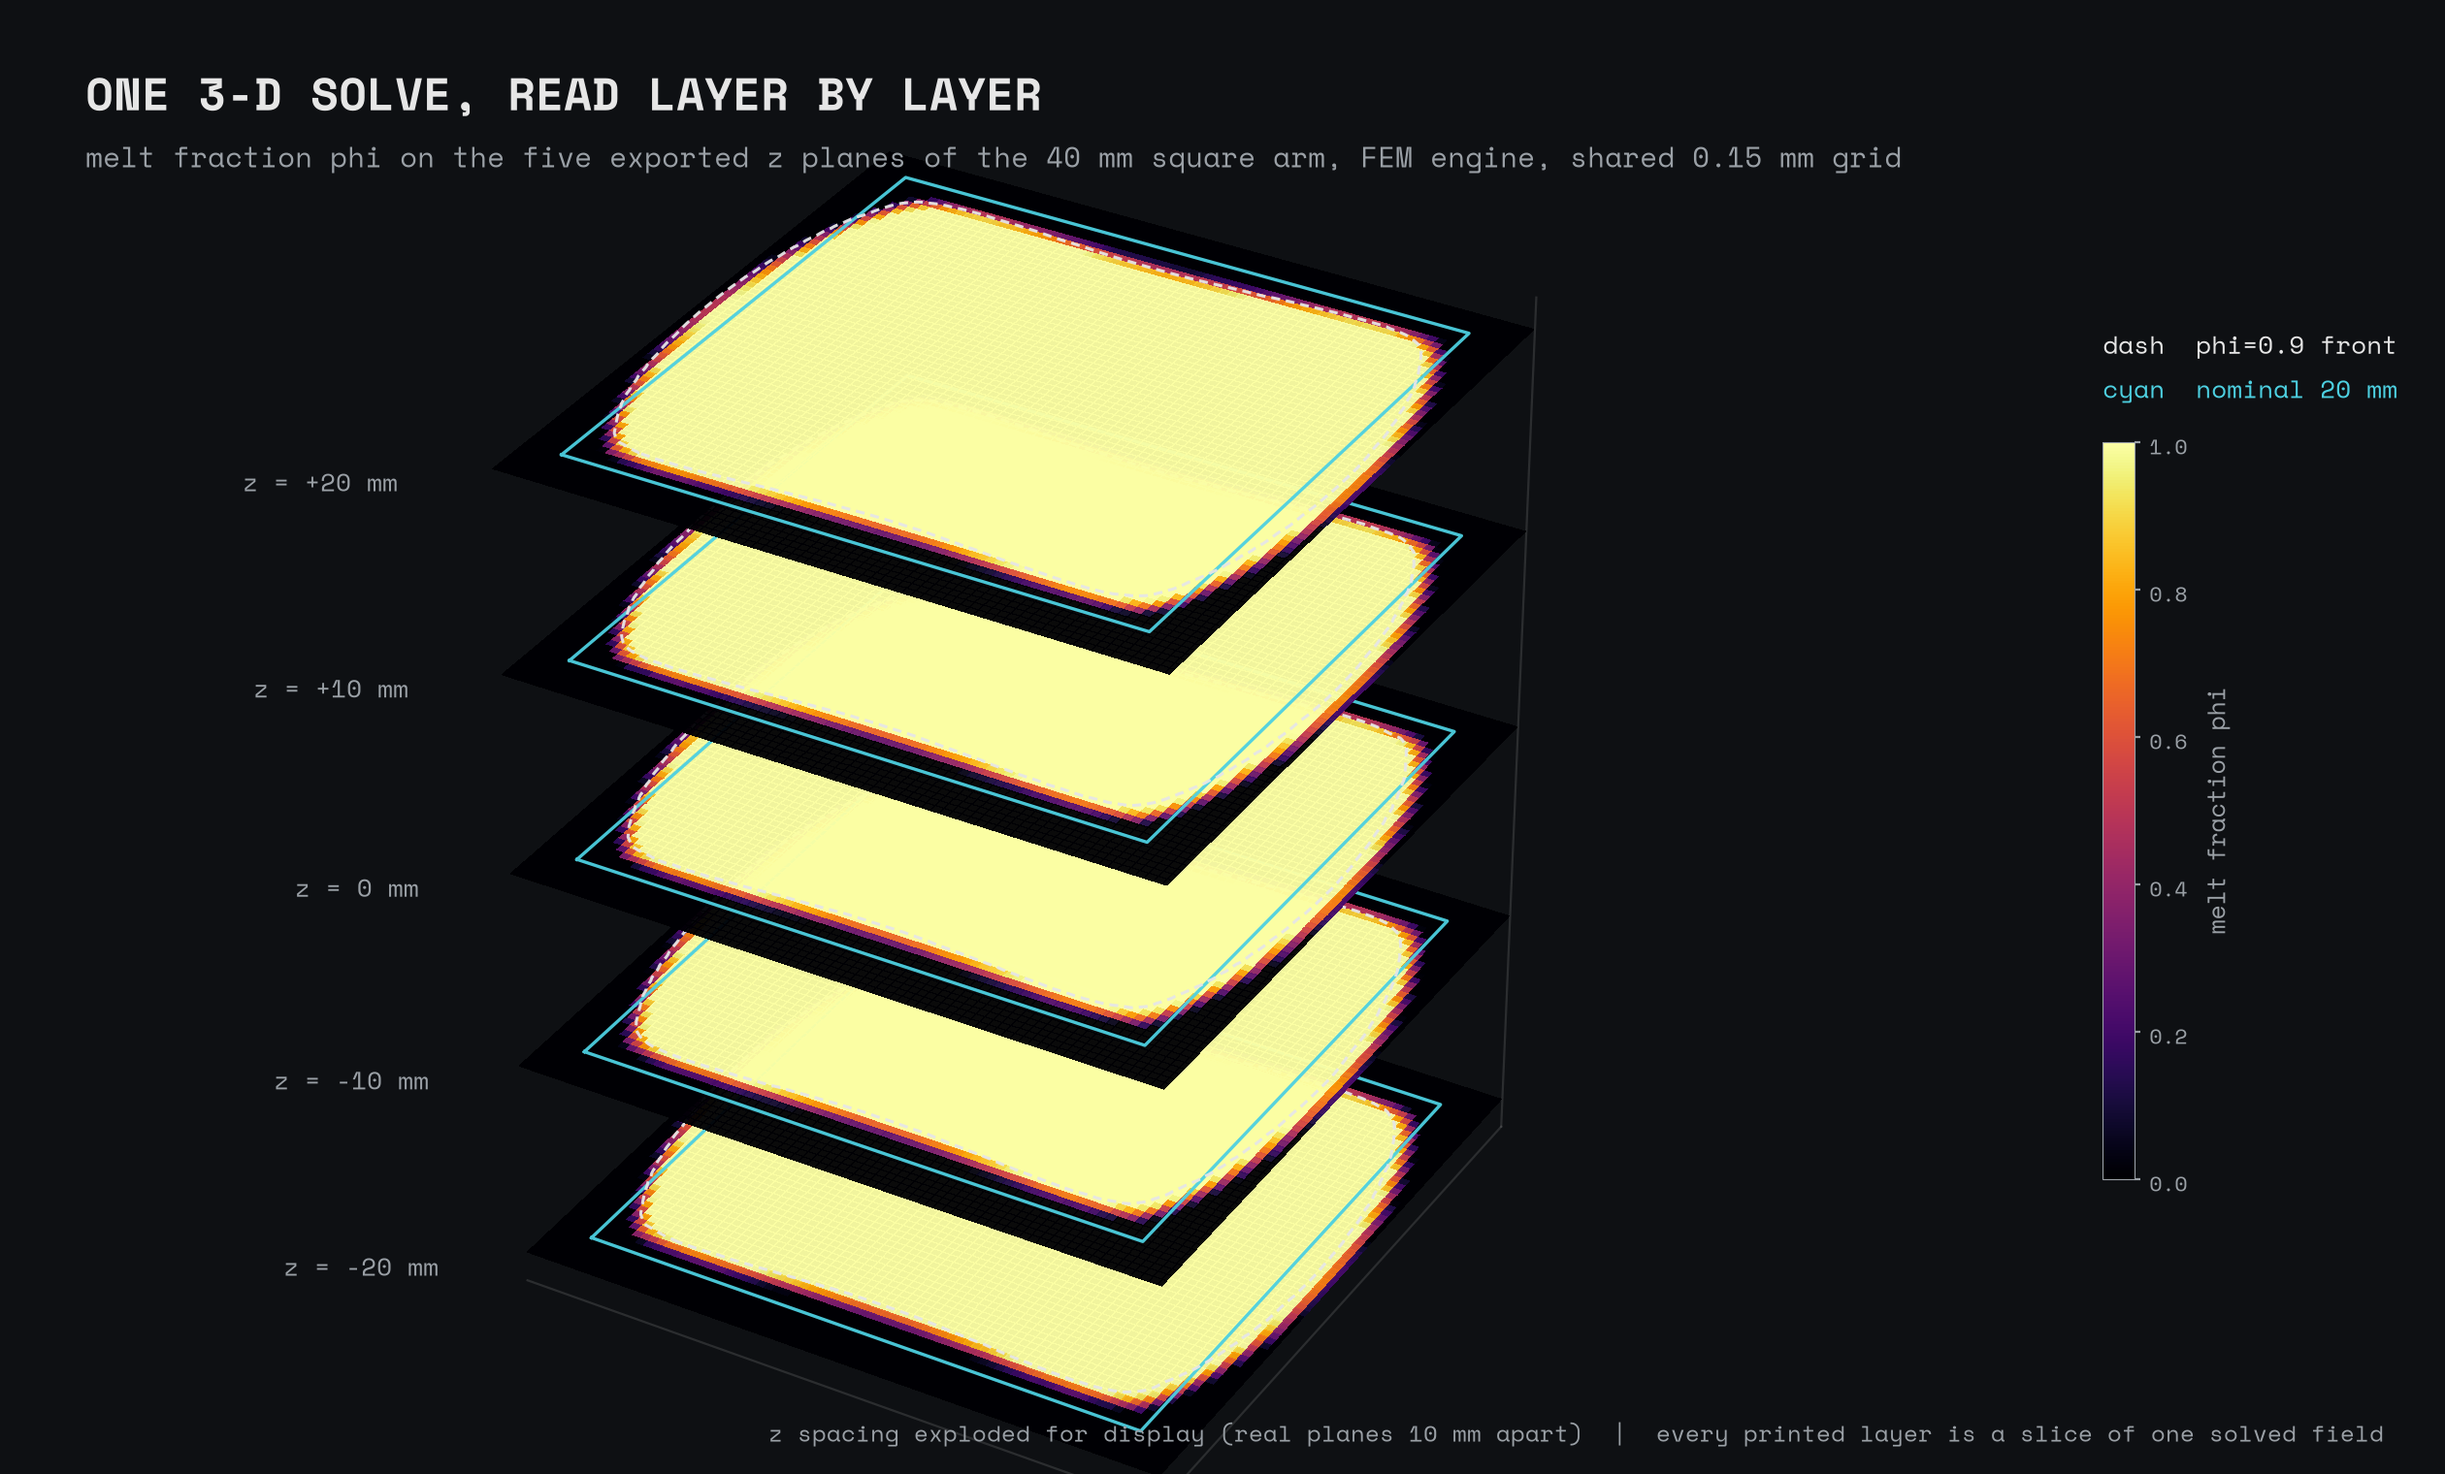
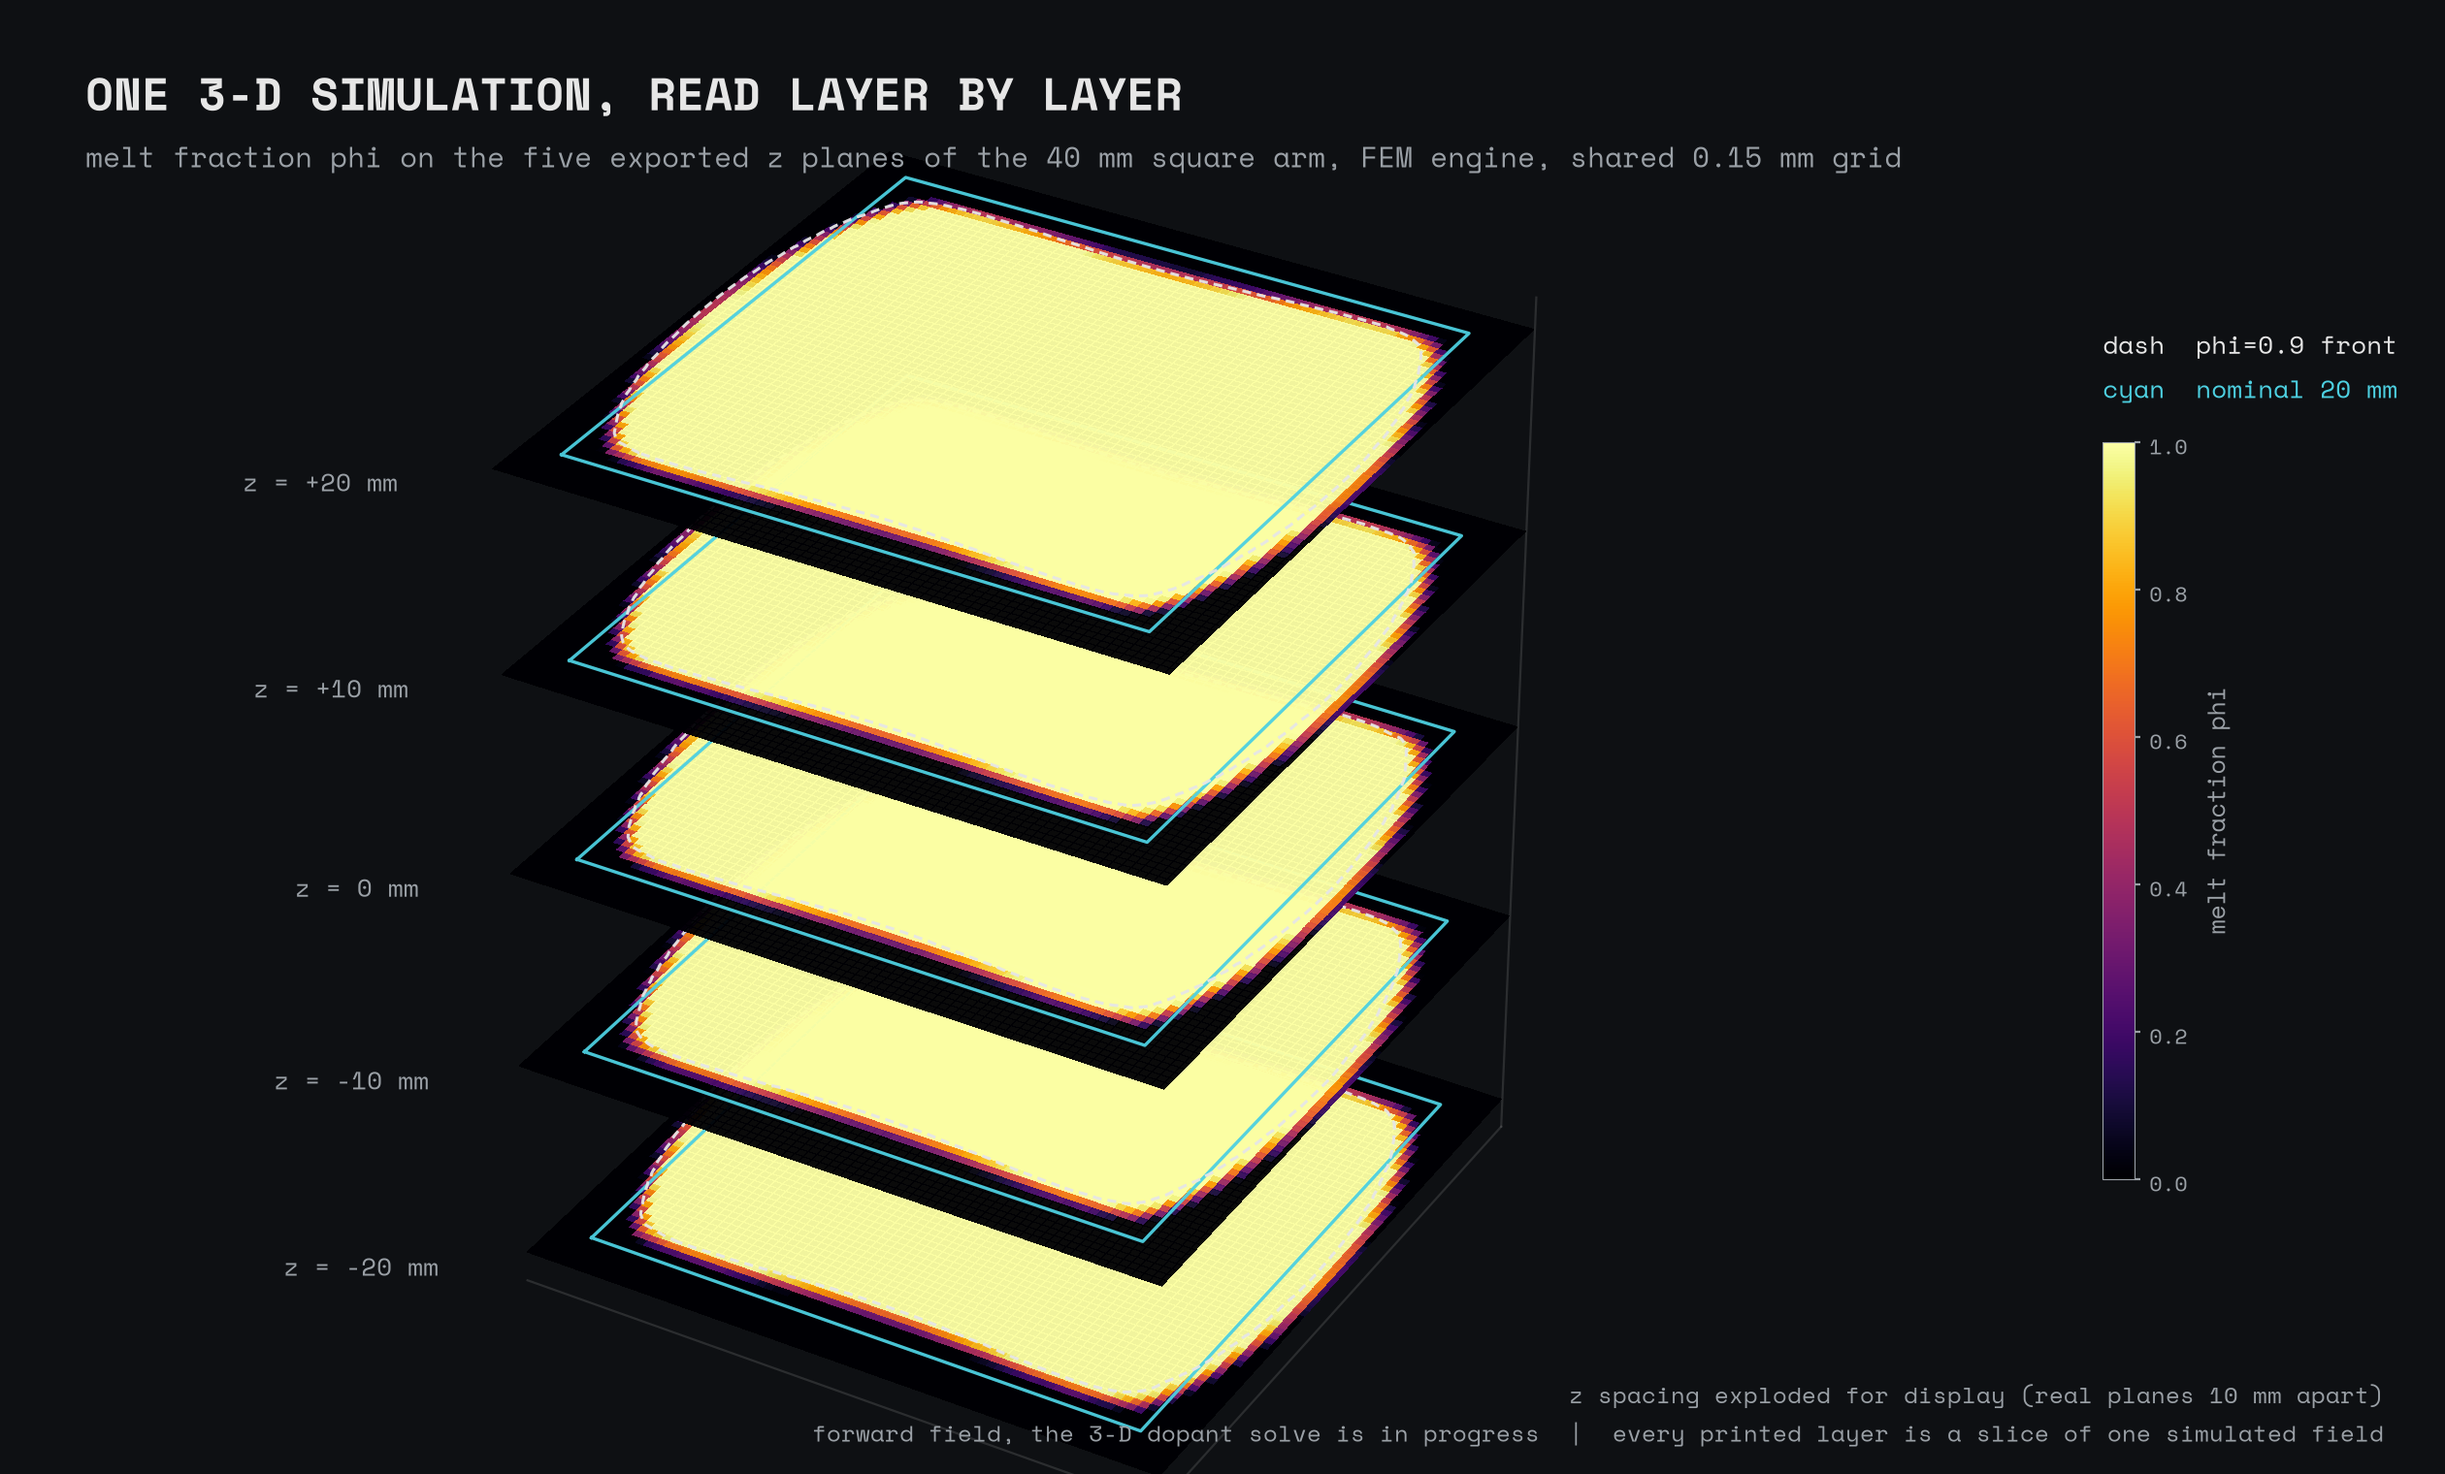
fix(deck-figs): fig4 retitled simulation not solve, status line added, footer layout fixed

diff --git a/deck_figures_3d/fig4_layer_stack.py b/deck_figures_3d/fig4_layer_stack.py
@@ -1,10 +1,11 @@
-"""Figure 4: One 3-D solve, read layer by layer.
+"""Figure 4: One 3-D simulation, read layer by layer.
 
 Exploded z-stack of the melt-fraction field phi on the five exported z planes
 of the square arm (dolfinx engine, shared 0.15 mm evaluation grid), each
 plane with its phi = 0.9 melt front and the nominal 20 mm outline. The
-visual bridge from the 3-D solve to layerwise printing: every layer the
-printer will rasterize is a slice of one solved field.
+visual bridge from the 3-D simulation to layerwise printing: every layer
+the printer will rasterize is a slice of one simulated field. Forward
+field only; the 3-D dopant solve is in progress (Phase C).
 
 Data: solve3d/results/eval_dolfinx_square_off.npz (T: 5 z planes at
 z = -20, -10, 0, +10, +20 mm, 200x200, 0.15 mm pixels; committed Phase A
@@ -84,7 +85,7 @@ def main() -> None:
     ax.set_box_aspect((1, 1, 1.35))
     ax.view_init(elev=33, azim=-60)
 
-    st.title_block(fig, "ONE 3-D SOLVE, READ LAYER BY LAYER",
+    st.title_block(fig, "ONE 3-D SIMULATION, READ LAYER BY LAYER",
                    "melt fraction phi on the five exported z planes of the "
                    "40 mm square arm, FEM engine, shared 0.15 mm grid")
     sm = plt.cm.ScalarMappable(norm=norm, cmap=cmap)
@@ -96,9 +97,12 @@ def main() -> None:
     cb.set_label("melt fraction phi", fontsize=9, color=st.DIM)
     fig.text(0.86, 0.76, "dash  phi=0.9 front", fontsize=9.5, color=st.FG)
     fig.text(0.86, 0.73, "cyan  nominal 20 mm", fontsize=9.5, color=st.ACCENT)
+    fig.text(0.975, 0.048,
+             "z spacing exploded for display (real planes 10 mm apart)",
+             fontsize=8.5, color=st.DIM, ha="right")
     fig.text(0.975, 0.022,
-             "z spacing exploded for display (real planes 10 mm apart)  |  "
-             "every printed layer is a slice of one solved field",
+             "forward field, the 3-D dopant solve is in progress  |  "
+             "every printed layer is a slice of one simulated field",
              fontsize=8.5, color=st.DIM, ha="right")
 
     out = st.OUT / "fig4_layer_stack.png"
